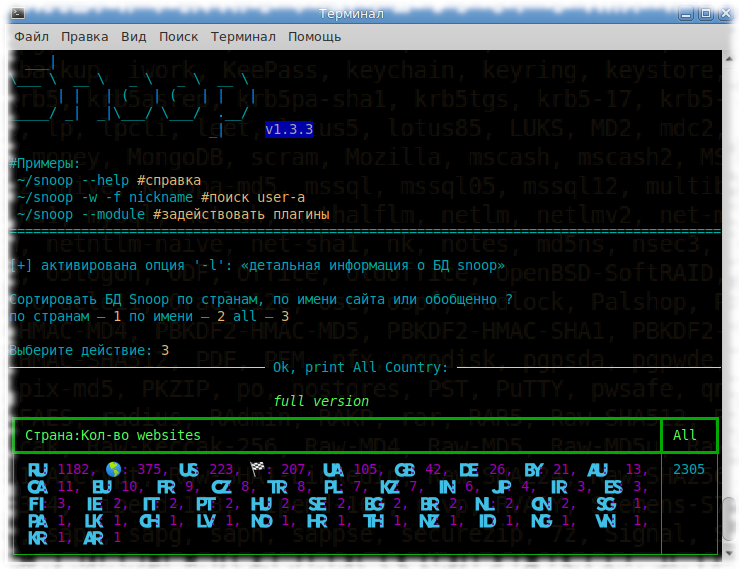
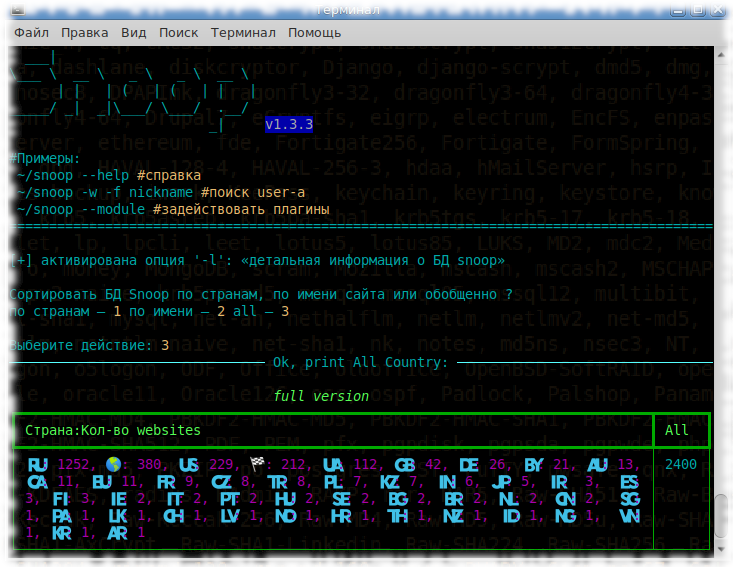
add_2.4k_sites

diff --git a/snoop.py b/snoop.py
@@ -771,7 +771,7 @@ def run():
                                      description=f"{Fore.CYAN}\nСправка{Style.RESET_ALL}",
                                      epilog=(f"{Fore.CYAN}Snoop {Style.BRIGHT}{Fore.RED}demo version {Style.RESET_ALL}" + \
                                              f"{Fore.CYAN}поддержка: \033[31;1m{flagBS}\033[0m \033[36mWebsites!\n{Fore.CYAN}" + \
-                                             f"Snoop \033[36;1mfull version\033[0m \033[36mподдержка: \033[36;1m2300+ \033[0m" + \
+                                             f"Snoop \033[36;1mfull version\033[0m \033[36mподдержка: \033[36;1m2400+ \033[0m" + \
                                              f"\033[36mWebsites!!!\033[0m\n {Style.DIM}{Fore.CYAN}English version — see release " + \
                                              f"(available 'old build Snoop EN version')\n\n"))
 # Service arguments.

diff --git a/README.md b/README.md
@@ -17,7 +17,7 @@ Snoop — это исследовательская работа (собстве
 По части специализированного поиска Snoop способен конкурировать с традиционными поисковыми системами.  
 
 Сравнение индексаций БД-никнеймов подобных инструментов:  
-<img src="https://img.shields.io/badge/Snoop-~2300+%20websites-success" width="30%" />  
+<img src="https://img.shields.io/badge/Snoop-~2400+%20websites-success" width="30%" />  
 <img src="https://img.shields.io/badge/Sherlock-~350 websites-yellowgreen" width="20%" />  
 <img src="https://img.shields.io/badge/Spiderfoot-~350 websites-yellowgreen" width="20%" />  
 <img src="https://img.shields.io/badge/Whatsmyname-~300 websites-yellowgreen" width="20%" />  
@@ -39,7 +39,7 @@ Snoop for OS Windows and GNU/Linux
 
 **Snoop Local database**  
 <img src="https://raw.githubusercontent.com/snooppr/snoop/master/images/snoop_run.png" />  
-[Snoop full version database 2300+ websites ⚡⚡⚡](https://github.com/snooppr/snoop/blob/master/websites.md "Database Snoop")  
+[Snoop full version database 2400+ websites ⚡⚡⚡](https://github.com/snooppr/snoop/blob/master/websites.md "Database Snoop")  
 
 ## Релиз/Release
 <img src="https://raw.githubusercontent.com/snooppr/snoop/master/images/snoop box.png" width="35%" />  

diff --git a/README.en.md b/README.en.md
@@ -15,7 +15,7 @@ in the search and processing of public data on the Internet.
 According to Snoop's specialized search, it is capable of competing with traditional search engines.  
 
 Comparison of indexations of bd-nikinal such tools:  
-<img src="https://img.shields.io/badge/Snoop-~2300+%20websites-success" width="30%" />  
+<img src="https://img.shields.io/badge/Snoop-~2400+%20websites-success" width="30%" />  
 <img src="https://img.shields.io/badge/Sherlock-~350 websites-yellowgreen" width="20%" />  
 <img src="https://img.shields.io/badge/Spiderfoot-~350 websites-yellowgreen" width="20%" />  
 <img src="https://img.shields.io/badge/Whatsmyname-~300 websites-yellowgreen" width="20%" />  
@@ -37,7 +37,7 @@ Snoop for OS Windows and GNU/Linux
 
 **Snoop Local database**  
 <img src="https://raw.githubusercontent.com/snooppr/snoop/master/images/EN_DB.png" />  
-[Snoop Full version database 2300+ websites ⚡⚡⚡](https://github.com/snooppr/snoop/blob/master/websites.md "Database Snoop")  
+[Snoop Full version database 2400+ websites ⚡⚡⚡](https://github.com/snooppr/snoop/blob/master/websites.md "Database Snoop")  
 
 ## Release
 <img src="https://raw.githubusercontent.com/snooppr/snoop/master/images/snoop box.png" width="35%" />  
